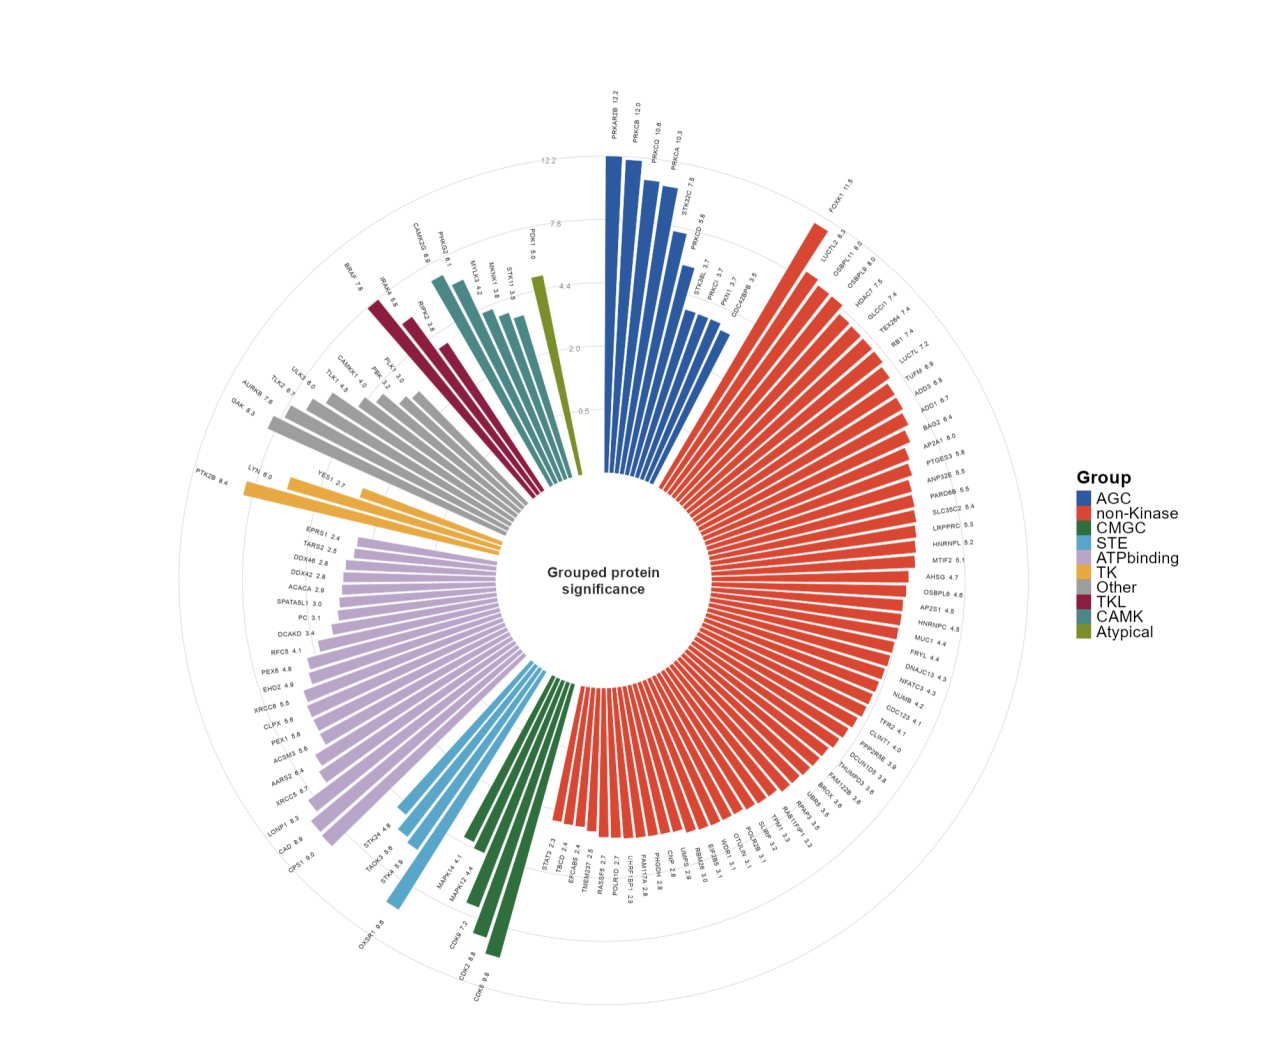
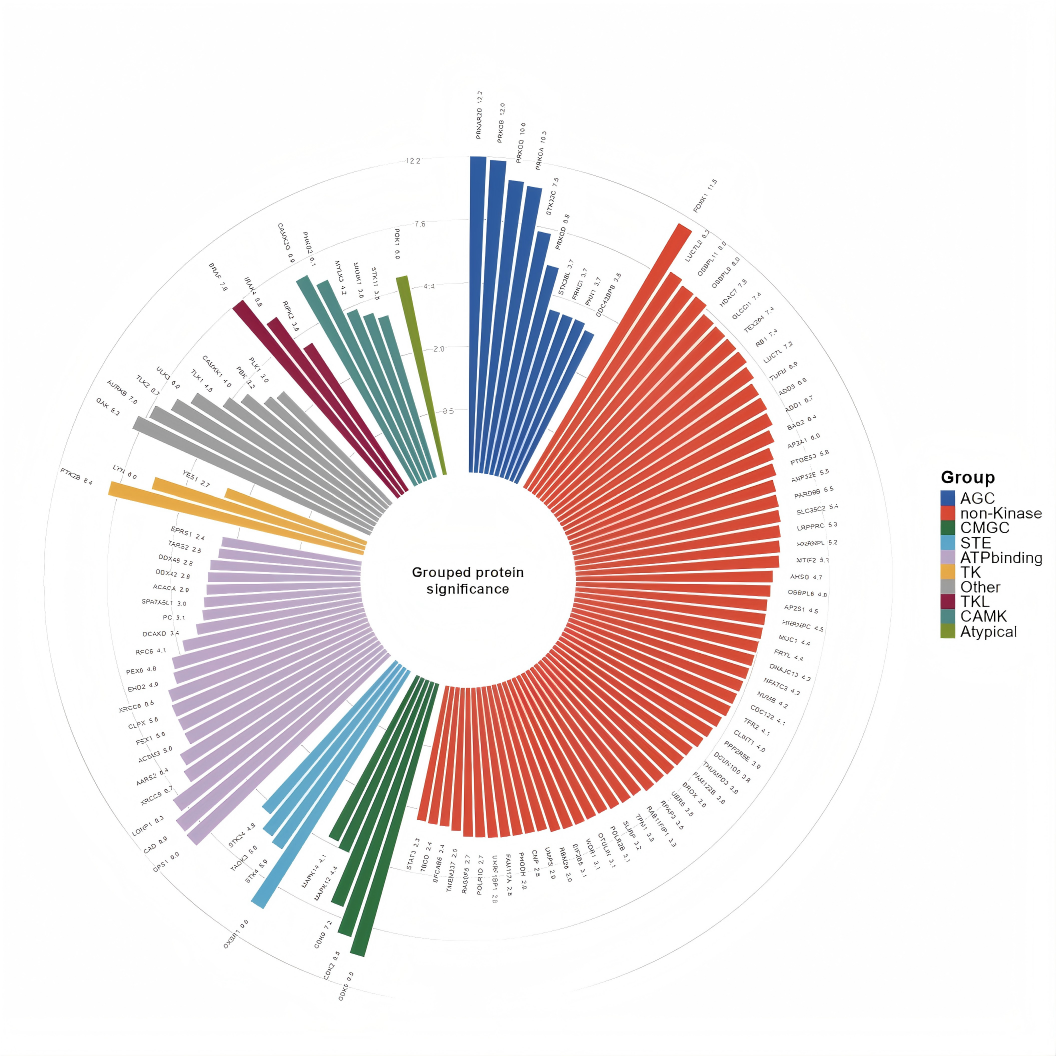
Update README names and gallery assets

Changed region(s): [[0.0937, 0.0937, 0.7805, 0.9054], [0.843, 0.4371, 0.9678, 0.6244]]

diff --git a/README.md b/README.md
@@ -5,9 +5,9 @@
 </p>
 
 Team:  
-开发人员（Developer）：江昊天，杜文晓，王邦宇  
+开发人员（Developer）：Haotian Jiang, Wenxiao Du, Bangyu Wang  
 指导老师（Supervisor and Sponsor）：Prof. Yongyue Wei, Peking University  
-内部测试：Graduate students on the team including: 崔淼、魏翘楚、奚梓玮
+内部测试：Graduate students on the team including: Miao Cui, Qiaochu Wei, Ziwei Xi
 
 **Language:** English | [简体中文](README.zh-CN.md)
 
@@ -253,7 +253,10 @@ We welcome researchers, developers, and students to co-build, test, and share im
 
 ## Acknowledgements
 
-This project was inspired by [Yuan1z0825/nature-skills](https://github.com/Yuan1z0825/nature-skills).
+This project was inspired by [Yuan1z0825/nature-skills](https://github.com/Yuan1z0825/nature-skills),but follows a different focus. It centers on medical statistical visualization principles from four leading medical journals—The Lancet, NEJM, JAMA, and BMJ—and is structured around the framework of Statistical Graphics and Art. It covers a broader range of chart types and helps users choose suitable visualizations based on their data structure and statistical intent.
+
+## Recruitment Notice
+The research group is seeking postdoctoral researchers. Applicants with relevant research backgrounds are encouraged to apply. For details, please visit: http://phepr.pku.edu.cn/info/1038/2521.htm
 
 ## References
 

diff --git a/README.zh-CN.md b/README.zh-CN.md
@@ -253,7 +253,10 @@ Rscript skills/StatsVisual-Skill/scripts/validate_r_plot.R demo/figures
 
 ## 致谢
 
-本项目灵感亦参考 [Yuan1z0825/nature-skills](https://github.com/Yuan1z0825/nature-skills)。
+本项目灵感亦参考 [Yuan1z0825/nature-skills](https://github.com/Yuan1z0825/nature-skills)，但定位有所不同。本项目主要聚焦四大医学期刊（The Lancet、NEJM、JAMA、BMJ）的医学统计绘图原则，并结合《统计图形与艺术》的知识框架，覆盖更丰富的图形类型。同时，在用户初次绘图时，可根据数据结构与统计意图推荐合适的图形方案。
+
+## 招聘启事
+课题组现诚聘博士后研究员，欢迎有相关研究背景者申请。详情请见：http://phepr.pku.edu.cn/info/1038/2521.htm。
 
 ## Reference
 
